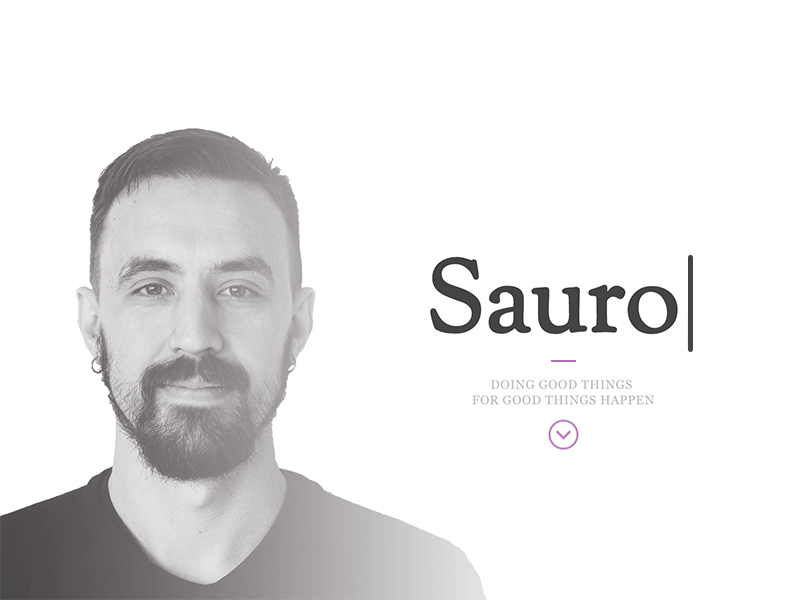
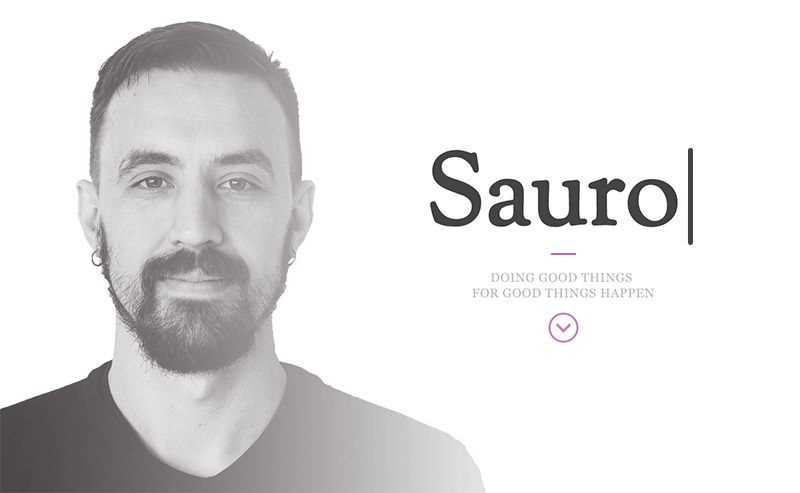
fb img

diff --git a/index.html b/index.html
@@ -17,7 +17,7 @@
     <meta property="og:title" content="Sauro - Creative UX / Design / Performance">
     <meta property="og:site_name" content="Sauro.me">
     <meta property="og:description" content="Creative UX specialist in Design and Performance">
-    <meta property="og:image" content="http://sauro.me/img/screenshot.png">
+    <meta property="og:image" content="http://sauro.me/img/fb.jpg">
     <meta property="og:image:type" content="image/jpeg">
     <meta property="og:image:width" content="800">
     <meta property="og:image:height" content="600">
